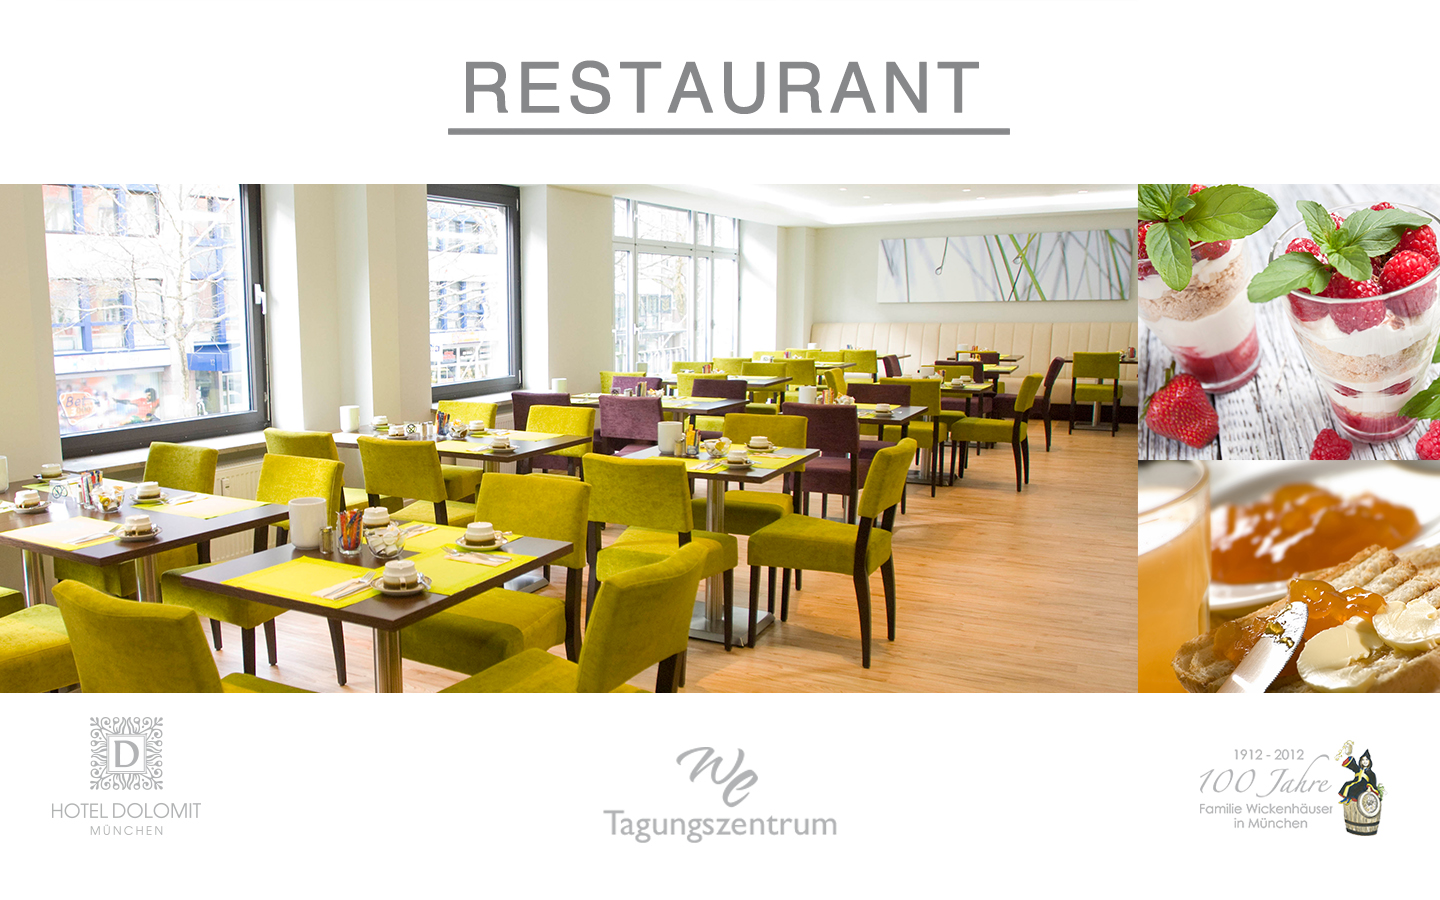
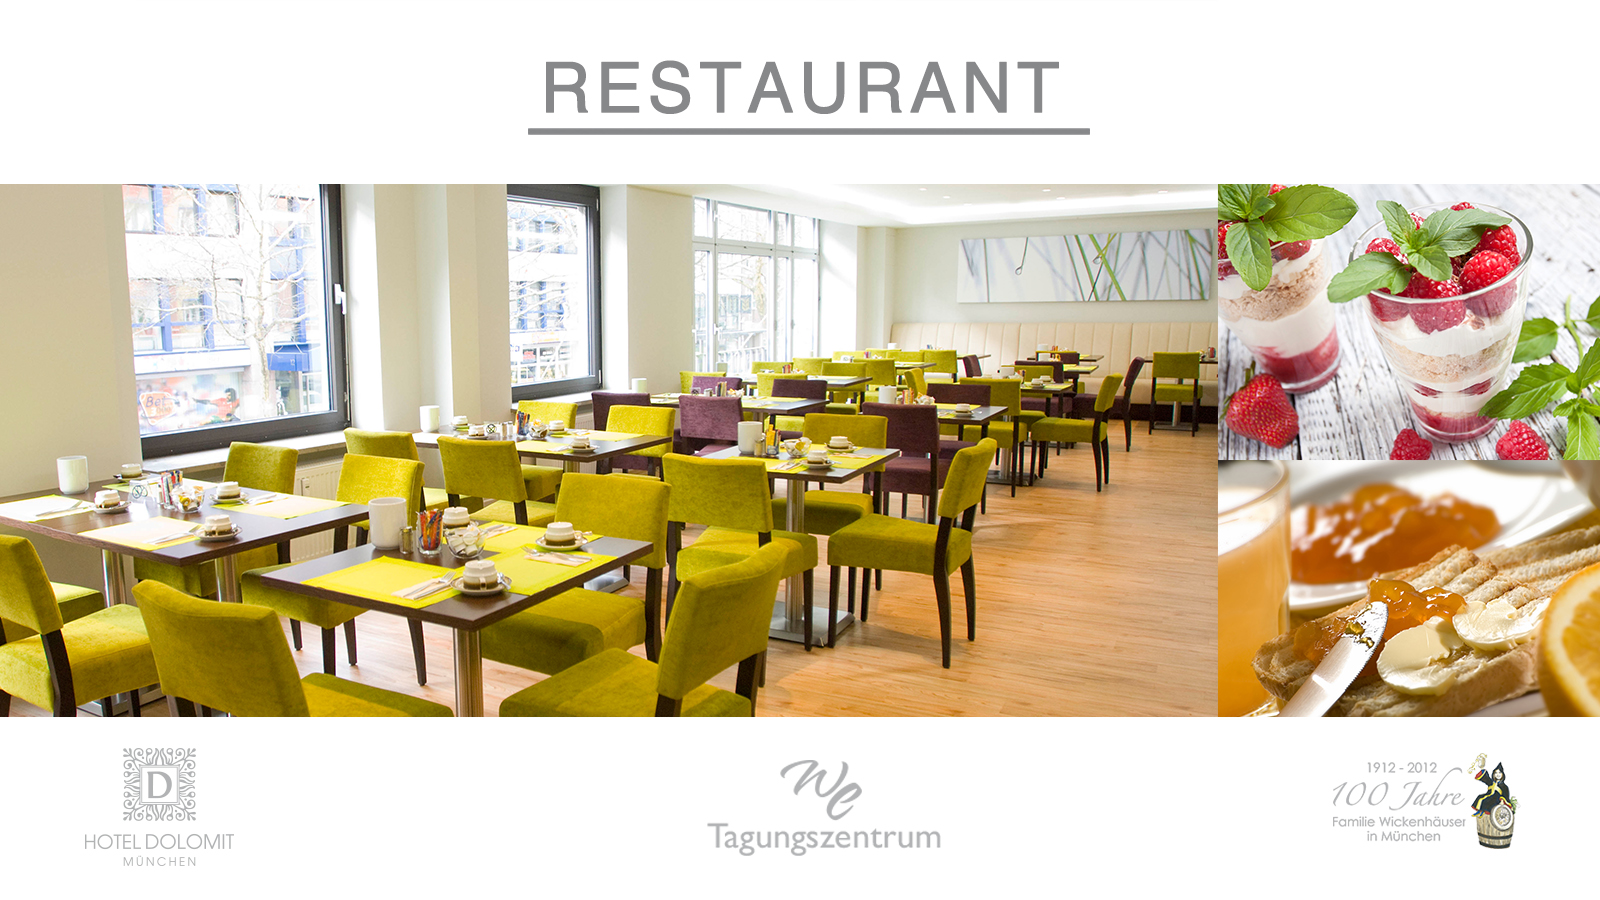
Neue Räume Change Resolution

diff --git a/src/main/webapp/scripts/room.js b/src/main/webapp/scripts/room.js
@@ -4,10 +4,10 @@ jQuery(document).ready(function () {
 		$('body > *').remove();
 		if($.switchToggle ==1){
 			if($.roomName == 'SAPHIR' || $.roomName == 'RUBIN I' || $.roomName == 'RUBIN II'){
-				$('body').css("color", "#838486").css("background","url('images/templates/rooms/monitore-raeume-dolomit-werbung1912-02.jpg')").css("height", "900px").css("width", "1600px")
+				$('body').css("color", "#838486").css("background","url('images/templates/rooms/monitore-raeume-dolomit-werbung1912-02.jpg')").css("height", "900px").css("width", "1440px")
 				
 			}else if($.roomName == 'RESTAURANT'){
-				$('body').css("color", "#838486").css("background","url('images/templates/rooms/monitore-raeume-dolomit-werbung1912-02.jpg')").css("height", "768px").css("width", "1366px")
+				$('body').css("color", "#838486").css("background","url('images/templates/rooms/monitore-raeume-dolomit-werbung1912-03.jpg')").css("height", "900px").css("width", "1600")
 			}else{
 				$('body').css("color", "#838486").css("background","url('images/templates/rooms/Monitor-Werbung1912-01.jpg')").css("height", "768px").css("width", "1366px")
 			}
